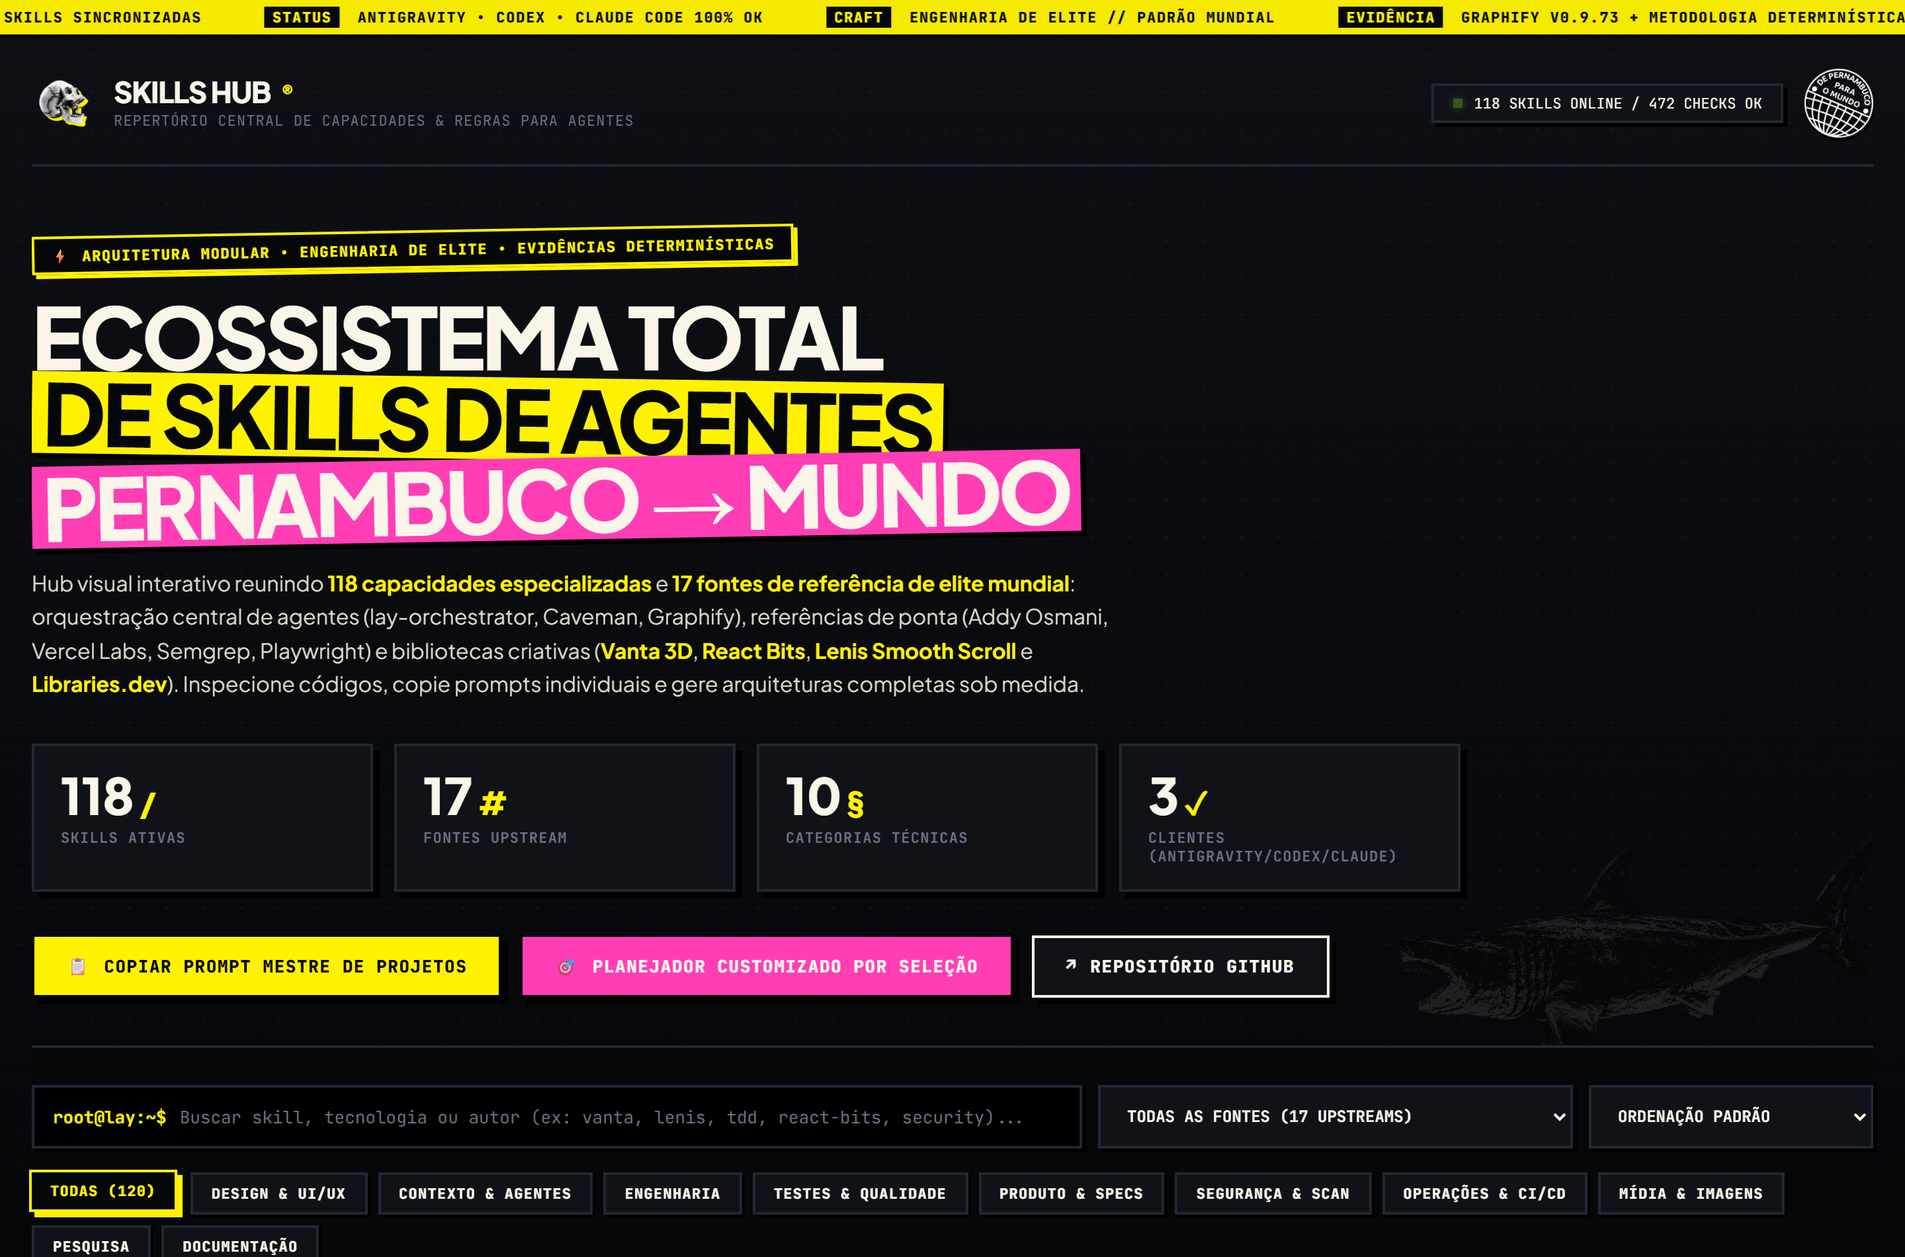
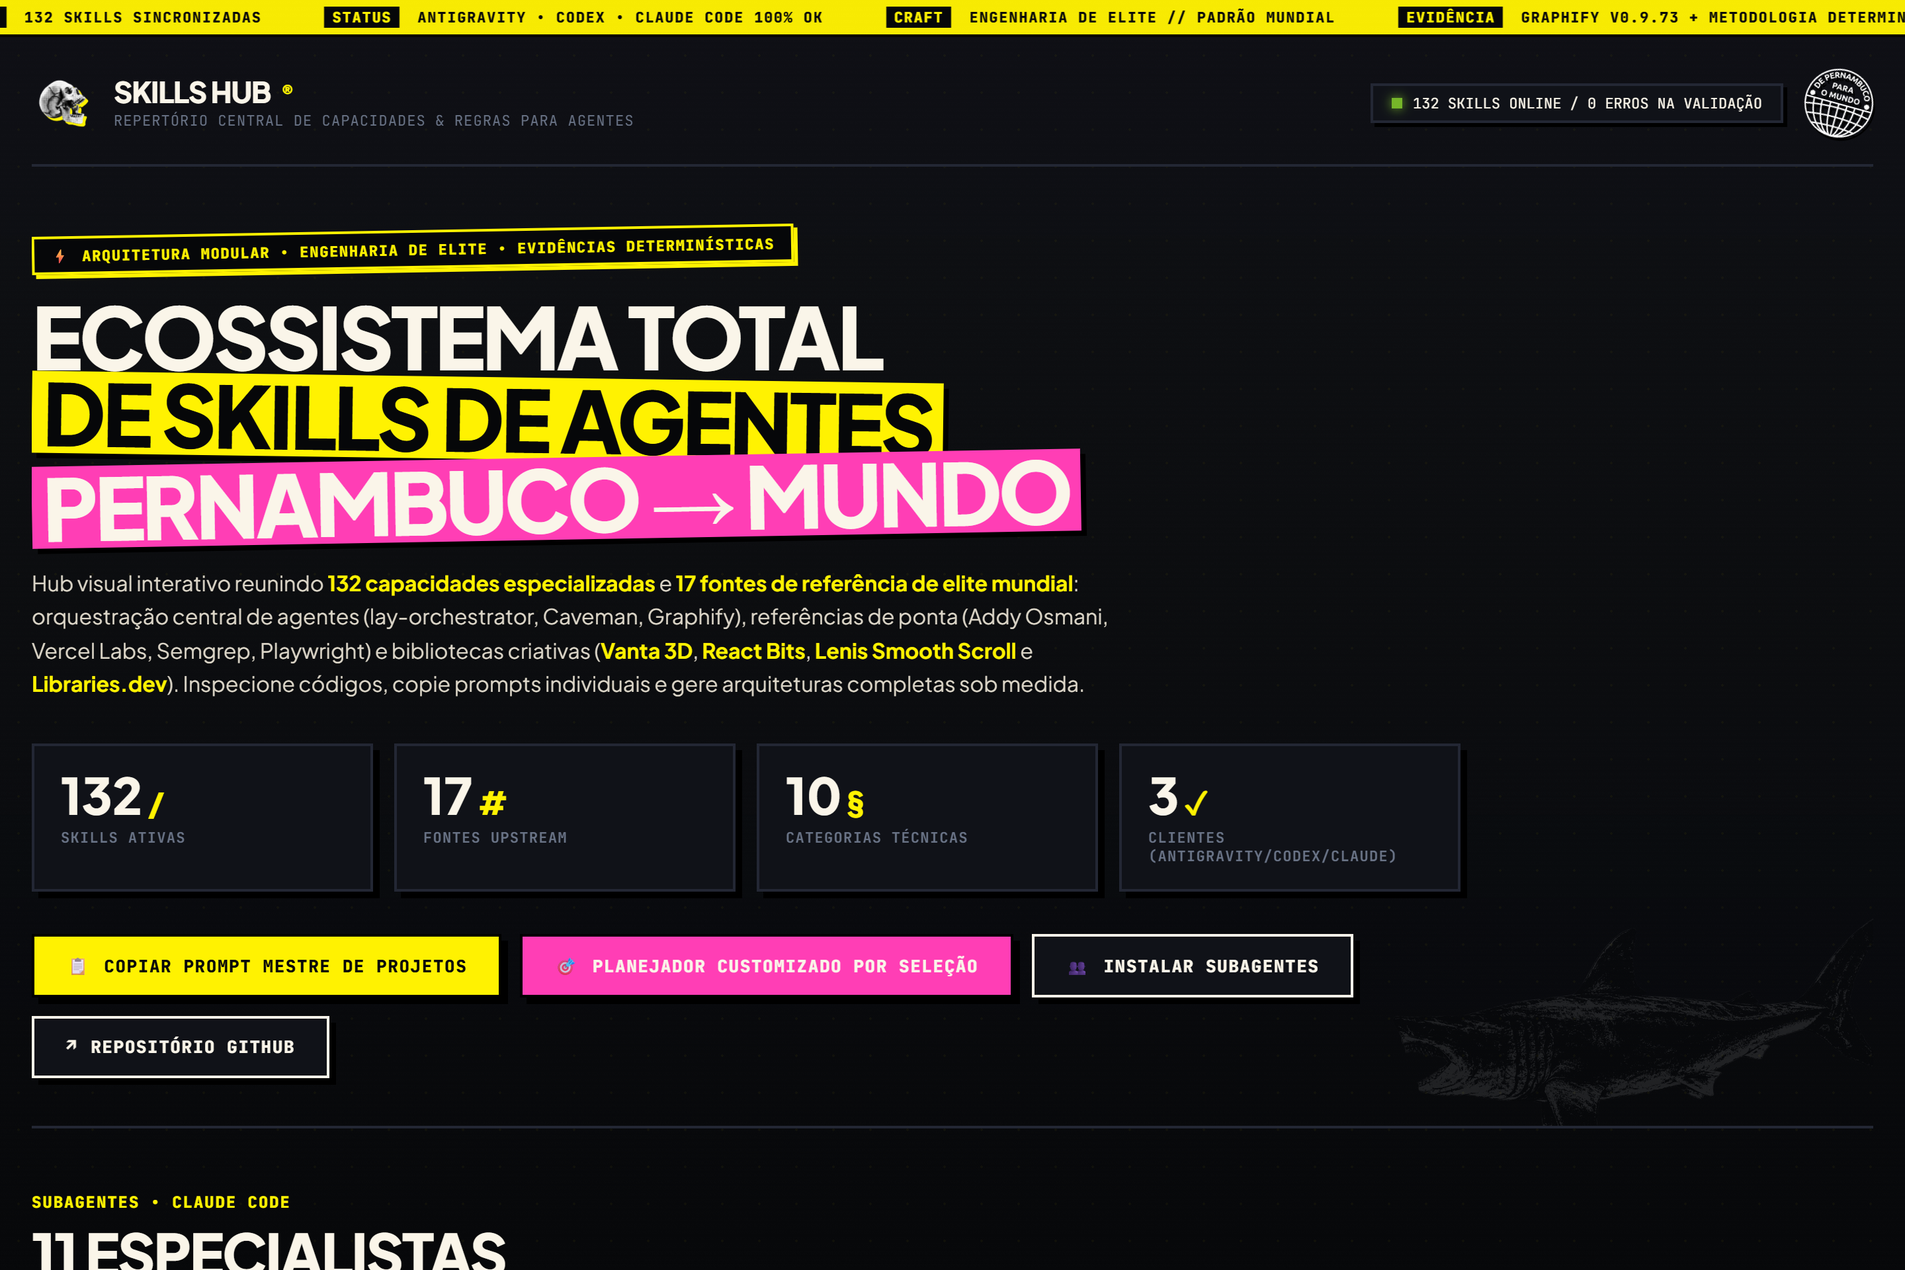
docs(readme): README reestruturado com capturas do site
- Galeria com 10 capturas (dashboard, catálogo, modais, subagentes, guia de
  instalação e celular), geradas a partir das páginas atuais.
- Seções de subagentes, adição de skills e instalação em opções.
- Badge de estrelas dinâmico.
- Remove 03-new-creative-skills.png, substituído pela captura dos subagentes.

diff --git a/README.md b/README.md
@@ -1,111 +1,232 @@
-# ⚡ LAY Skills Hub — Base de Habilidades para Agentes de IA
-
 <div align="center">
 
-![GitHub Release](https://img.shields.io/badge/release-v1.0.0-blue?style=for-the-badge&logo=git)
-![Skills Count](https://img.shields.io/badge/skills-132%20online-00f0ff?style=for-the-badge&logo=probot)
-![Platforms](https://img.shields.io/badge/agents-Antigravity%20%7C%20Codex%20%7C%20Claude-fff201?style=for-the-badge)
+# ⚡ LAY Skills Hub
+
+**Base de habilidades, subagentes e regras para agentes de IA**
+
+Google Antigravity · OpenAI Codex · Claude Code
+
+![Stars](https://img.shields.io/github/stars/Lound-Angry-Young/LAY-Skills-Hub?style=for-the-badge&logo=github&color=fff201&labelColor=060709)
+![Release](https://img.shields.io/badge/release-v1.0.0-blue?style=for-the-badge&logo=git)
+![Skills](https://img.shields.io/badge/skills-132%20online-00f0ff?style=for-the-badge&logo=probot)
+![Agents](https://img.shields.io/badge/agents-Antigravity%20%7C%20Codex%20%7C%20Claude-fff201?style=for-the-badge)
 ![License](https://img.shields.io/badge/license-MIT-green?style=for-the-badge)
 ![GitHub Pages](https://img.shields.io/badge/pages-ready-brightgreen?style=for-the-badge&logo=github)
 
 <br>
 
-**Repositório central de engenharia de software, orquestração de contexto, TDD e capacidades criativas para agentes de Inteligência Artificial.**
+<a href="https://lound-angry-young.github.io/LAY-Skills-Hub/">
+  <img src="docs/assets/screenshots/07-social-linkedin-card.png" alt="Hub de skills LAY: hero, métricas e acesso ao catálogo" width="100%">
+</a>
 
-<br>
+<br><br>
 
-![Social Preview](docs/assets/screenshots/07-social-linkedin-card.png)
-
-</div>
-
----
-
-## 🎯 Visão Geral
-
-O **LAY Skills Hub** é uma plataforma e infraestrutura modular projetada para abastecer assistentes de código e agentes autônomos (**Google Antigravity**, **OpenAI Codex**, **Claude Code**) com mais de **132 habilidades e diretrizes técnicas comprovadas**.
-
-Em vez de depender de heurísticas rasas ou respostas genéricas de LLM, o hub injeta contratos rigorosos de arquitetura, metodologias de teste (TDD), regras de segurança (OWASP Top 10) e bibliotecas criativas contemporâneas diretamente na camada de contexto dos agentes.
-
-### 🌟 Destaques Principais:
-- **132 Skills Homologadas:** Curadoria das melhores práticas da indústria (Addy Osmani, Vercel Labs, Semgrep, Microsoft Playwright).
-- **Dashboard Visual Web:** Interface estática independente (`index.html`) pronta para uso local ou publicação instantânea via **GitHub Pages**.
-- **Gerador de Prompts sob Medida:** Componha seleções específicas de habilidades e copie instruções formatadas com um clique.
-- **Orquestração Inteligente:** Integração nativa com navegação em grafos (**Graphify**) e comunicação ultra-concisa (**Caveman**).
-- **Stack Criativa & 3D WebGL:** Suporte arquitetural a **Vanta 3D**, **React Bits**, **Lenis Smooth Scroll** e **Libraries.dev**.
-
----
-
-## 📸 Demonstração Visual & Galeria para Redes Sociais
-
-> **💡 Dica para Redes Sociais:** Todas as capturas abaixo estão disponíveis em alta resolução (resolução Retina 2x) no diretório [`docs/assets/screenshots/`](docs/assets/screenshots/) e formatadas para compartilhamento no **LinkedIn**, **Twitter/X** e apresentações executivas.
-
-<div align="center">
-
-### 1. Visão Geral do Hub & Telemetria
-![Hub Overview](docs/assets/screenshots/01-hub-overview.png)
-*Interface principal com contador em tempo real, telemetria de runtimes e status de integração.*
-
-<br>
-
-### 2. Catálogo Completo & Grade de Filtros
-![Skills Catalog](docs/assets/screenshots/02-skills-catalog.png)
-*Exploração por categorias: Engenharia, Contexto, Testes, Segurança, Design e Operações.*
-
-<br>
-
-### 3. Stack Criativa (3D WebGL, Cinemática & Shaders)
-![Creative Skills](docs/assets/screenshots/03-new-creative-skills.png)
-*Módulos especializados em microinterações, física de scroll e backgrounds interativos Three.js.*
-
-<br>
-
-### 4. Inspeção de Especificação (Modal SKILL.md)
-![Skill Detail Modal](docs/assets/screenshots/04-skill-detail-modal.png)
-*Visualização inline das instruções completas, comandos de execução e metadados de proveniência.*
-
-<br>
-
-### 5. Prompt Mestre Universal para Novos Projetos
-![Master Prompt Modal](docs/assets/screenshots/05-master-prompt.png)
-*Script de inicialização pronto para orquestrar agentes em qualquer novo repositório.*
-
-<br>
-
-### 6. Planejador Sob Medida por Seleção Ativa
-![Custom Prompt Planner](docs/assets/screenshots/06-custom-prompt-planner.png)
-*Geração dinâmica de prompts injetando exclusivamente as habilidades selecionadas na sessão.*
+[**🌐 Dashboard**](https://lound-angry-young.github.io/LAY-Skills-Hub/) &nbsp;·&nbsp;
+[**📘 Guia dos subagentes**](https://lound-angry-young.github.io/LAY-Skills-Hub/instalacao.html) &nbsp;·&nbsp;
+[**⬇ Instalação**](#-instalação) &nbsp;·&nbsp;
+[**🤖 Subagentes**](#-subagentes-para-claude-code)
 
 </div>
 
 ---
 
-## 🚀 Como Executar
+## 📑 Sumário
 
-### 1. Acesso Imediato ao Dashboard Web
-A interface visual não requer servidor Node.js ou dependências complexas:
-- **Via Navegador:** Dê um duplo clique no arquivo [`index.html`](index.html) na raiz do repositório.
-- **Via Terminal (PowerShell):**
-  ```powershell
-  Start-Process "index.html"
-  ```
+- [Visão geral](#-visão-geral)
+- [Galeria](#-galeria)
+- [Subagentes para Claude Code](#-subagentes-para-claude-code)
+- [Adicionar skills](#-adicionar-skills)
+- [Instalação](#-instalação)
+- [Taxonomia das 132 habilidades](#-taxonomia-das-132-habilidades)
+- [Publicação no GitHub Pages](#-publicação-no-github-pages)
+- [Mídia](#-mídia)
 
-### 2. Clonagem com Submódulos Upstream
-Para clonar este hub com todas as fontes e bibliotecas integradas:
+---
+
+## 🎯 Visão geral
+
+O **LAY Skills Hub** abastece assistentes de código e agentes autônomos (**Google Antigravity**, **OpenAI Codex** e **Claude Code**) com **132 habilidades** e diretrizes técnicas, além de **11 subagentes** especialistas para o Claude Code.
+
+Em vez de respostas genéricas, o hub injeta na camada de contexto dos agentes contratos de arquitetura, metodologia de testes (TDD), regras de segurança (OWASP Top 10) e bibliotecas criativas contemporâneas.
+
+| | |
+| :--- | :--- |
+| 🧠 **132 skills homologadas** | Curadoria de práticas da indústria: Addy Osmani, Vercel Labs, Semgrep e Microsoft Playwright. |
+| 🤖 **11 subagentes** | Um especialista por domínio para o Claude Code, instalado globalmente ou versionado no projeto. |
+| 🎛 **Dashboard visual** | Interface estática (`index.html`), pronta para uso local ou no GitHub Pages. |
+| 🧾 **Prompts sob medida** | Monte uma seleção de skills e copie o plano de projeto formatado com um clique. |
+| 🧭 **Contexto e grafos** | Diagnóstico inicial com `lay-orchestrator`, grafos com **Graphify** e comunicação concisa com **Caveman**. |
+| 🎬 **Stack criativa** | Suporte a **Vanta 3D**, **React Bits**, **Lenis Smooth Scroll** e **Libraries.dev**. |
+
+---
+
+## 🖼 Galeria
+
+<table>
+  <tr>
+    <td align="center" width="50%">
+      <img src="docs/assets/screenshots/01-hub-overview.png" alt="Hero do dashboard com métricas" width="100%"><br>
+      <sub><b>Dashboard</b>: hero, métricas e atalhos do hub</sub>
+    </td>
+    <td align="center" width="50%">
+      <img src="docs/assets/screenshots/02-skills-catalog.png" alt="Catálogo com filtros e cards" width="100%"><br>
+      <sub><b>Catálogo</b>: busca, filtros por categoria e cards com ações</sub>
+    </td>
+  </tr>
+  <tr>
+    <td align="center" width="50%">
+      <img src="docs/assets/screenshots/04-skill-detail-modal.png" alt="Modal com a especificação de uma skill" width="100%"><br>
+      <sub><b>Especificação</b>: o <code>SKILL.md</code> completo, com a fonte</sub>
+    </td>
+    <td align="center" width="50%">
+      <img src="docs/assets/screenshots/05-master-prompt.png" alt="Modal do prompt mestre" width="100%"><br>
+      <sub><b>Prompt mestre</b>: inicialização pronta para qualquer projeto novo</sub>
+    </td>
+  </tr>
+  <tr>
+    <td align="center" width="50%">
+      <img src="docs/assets/screenshots/06-custom-prompt-planner.png" alt="Planejador com as skills selecionadas" width="100%"><br>
+      <sub><b>Planejador</b>: só as skills selecionadas entram no prompt</sub>
+    </td>
+    <td align="center" width="50%">
+      <img src="docs/assets/screenshots/10-mobile-hub.png" alt="Dashboard no celular" width="60%"><br>
+      <sub><b>Celular</b>: o dashboard funciona sem rolagem horizontal</sub>
+    </td>
+  </tr>
+</table>
+
+### 🤖 Subagentes e guia de instalação
+
+<table>
+  <tr>
+    <td align="center" colspan="2">
+      <img src="docs/assets/screenshots/03-subagentes.png" alt="Seção dos 11 subagentes com domínio, uso e ferramentas" width="100%"><br>
+      <sub><b>Os 11 subagentes</b>: um por domínio, com as ferramentas de cada um</sub>
+    </td>
+  </tr>
+  <tr>
+    <td align="center" width="50%">
+      <img src="docs/assets/screenshots/08-guia-instalacao.png" alt="Guia de instalação em três passos" width="100%"><br>
+      <sub><b>Guia de instalação</b>: clonar, instalar e conferir</sub>
+    </td>
+    <td align="center" width="50%">
+      <img src="docs/assets/screenshots/09-guia-prompts.png" alt="Prompts prontos para copiar" width="100%"><br>
+      <sub><b>Prompts prontos</b>: instalar, atualizar com confirmação e pedir com orquestração</sub>
+    </td>
+  </tr>
+</table>
+
+---
+
+## 🤖 Subagentes para Claude Code
+
+O hub traz **11 subagentes** para o Claude Code, um especialista por domínio. Cada um recebe as skills do seu domínio e só as ferramentas que o trabalho exige. A conversa principal escolhe o especialista, delega a tarefa e junta a resposta. **Subagentes não chamam outros subagentes.**
+
+| Subagente | Domínio | Use quando | Ferramentas |
+| :--- | :--- | :--- | :--- |
+| `lay-omniroute` | routing-and-proxy | roteamento entre modelos, providers, combos, custos e limites de gasto | leitura, edição e comandos |
+| `lay-frontend` | frontend | telas, componentes, landing pages, layout e animação | leitura, edição e comandos |
+| `lay-engenharia` | engineering | arquitetura, revisão de código, depuração, migração e performance | leitura, edição e comandos |
+| `lay-contexto` | context | grafo do projeto, planejamento, requisitos e compressão de contexto | leitura, edição e comandos |
+| `lay-devops` | devops | commits, branches, releases, CI/CD e deploy | leitura, edição e comandos |
+| `lay-qa` | qa | testes, cobertura, falhas de CI e validação antes de merge | leitura, edição e comandos |
+| `lay-seguranca` | security | vulnerabilidades, auditoria, segredos e autenticação | só leitura (não edita arquivos) |
+| `lay-3d` | creative-3d | 3D, Blender, shaders, fundos animados e WebGL | leitura, edição e comandos |
+| `lay-documentacao` | documentation | revisão de texto, ADRs e prosa para publicação | sem comandos (sem Bash) |
+| `lay-design` | design | identidade visual, moodboard e mockups (não escreve código de interface) | sem comandos (sem Bash) |
+| `lay-banco-de-dados` | database | backup, restauração, snapshots e cache de respostas | leitura, edição e comandos |
+
+### Como chamar
+
+- **Automático:** escreva o pedido normalmente. O Claude escolhe o subagente pela `description`, que traz os gatilhos "Use quando" e "Não use para".
+- **Pelo nome:** `use o subagente lay-qa para cobrir o checkout com testes`.
+- Subagente novo não aparece? Reinicie a sessão: os perfis são carregados no início.
+
+### Onde ficam
+
+- **Global**, em `~/.claude/agents/`: vale em todos os seus projetos.
+- **Projeto**, em [`.claude/agents/`](.claude/agents/): versionado neste repositório. Quando os dois existem, o do projeto prevalece.
+
+### Orquestração
+
+As regras de roteamento estão na seção "Orquestração de subagentes" do [`CLAUDE.md`](CLAUDE.md). O contrato de handoff está em [`agents/wiring/HANDOFF.md`](agents/wiring/HANDOFF.md) e o índice em [`agents/README.md`](agents/README.md).
+
+📘 **Guia completo, com prompts para copiar:** [instalação e uso dos subagentes](https://lound-angry-young.github.io/LAY-Skills-Hub/instalacao.html).
+
+---
+
+## ➕ Adicionar skills
+
+Uma skill ou um lote inteiro entra no padrão com um comando. O gerador confere o formato, atualiza os roteadores do domínio e regenera catálogo, dashboard e subagentes. Se algo estiver fora do padrão, nada é gravado.
+
 ```bash
-git clone --recurse-submodules https://github.com/Lound-Angry-Young/SKILLS-E-CONFIGS-PARA-NOVOS-PROJETOS.git
+python scripts/nova_skill.py dominios                      # domínios, skills e subagente de cada um
+python scripts/nova_skill.py nova <nome> --dominio <dominio> --descricao "<texto>" --corpo corpo.md
+python scripts/nova_skill.py lote <pasta>                  # pasta <dominio>/<nome>/SKILL.md, tudo ou nada
+python scripts/nova_skill.py regenerar
 ```
 
-### 3. Instalação nos Agentes Locais
-Para distribuir automaticamente as skills nos perfis globais do **Google Antigravity**, **OpenAI Codex** ou **Claude Code**:
+📘 Passo a passo, formato e skills privadas: [docs/ADICIONAR_SKILLS.md](docs/ADICIONAR_SKILLS.md).
 
-- **Windows (PowerShell):**
-  ```powershell
-  powershell -ExecutionPolicy Bypass -File ".\install.ps1"
-  ```
-- **Linux / macOS (Bash):**
-  ```bash
-  bash "./install.sh"
-  ```
+---
+
+## ⬇ Instalação
+
+<details open>
+<summary><b>Opção 1: dashboard local, sem instalar nada</b></summary>
+
+Dê um duplo clique em [`index.html`](index.html), ou rode no PowerShell:
+
+```powershell
+Start-Process "index.html"
+```
+
+</details>
+
+<details open>
+<summary><b>Opção 2: clonar com as fontes (submódulos)</b></summary>
+
+```bash
+git clone --recurse-submodules https://github.com/Lound-Angry-Young/LAY-Skills-Hub.git
+cd LAY-Skills-Hub
+```
+
+Já clonou sem submódulos? Rode `git submodule update --init --recursive`.
+
+</details>
+
+<details open>
+<summary><b>Opção 3: instalar nos agentes</b></summary>
+
+Distribui as skills para os perfis globais do **Google Antigravity**, **OpenAI Codex** e **Claude Code**, incluindo os 11 subagentes.
+
+| Sistema | Comando |
+| :--- | :--- |
+| Windows (PowerShell) | `powershell -ExecutionPolicy Bypass -File ".\install.ps1"` |
+| Linux / macOS | `bash "./install.sh"` |
+| Só Claude Code | `python scripts/skill_hub.py install --agents claude` |
+| Conferir a instalação | `python scripts/skill_hub.py doctor` |
+
+Atualizar e remover:
+
+```bash
+python scripts/skill_hub.py sync --check     # consulta as fontes, não altera nada
+python scripts/skill_hub.py sync --apply     # aplica atualizações (explícito)
+python scripts/skill_hub.py install --agents all
+python scripts/skill_hub.py uninstall
+```
+
+<details>
+<summary>Regra de atualização das fontes</summary>
+
+1. **Consulta:** automática no início de sessão, por projeto. Não altera nenhum arquivo.
+2. **Aplicação:** explícita, com `sync --apply`. Só fast-forward limpo; alterações locais são preservadas.
+3. **Commit:** cada fonte atualizada vira um commit `chore(upstream): atualizar <fonte> para <sha7>`.
+4. **Reflexo nos agentes:** depois, `install --agents all`.
+
+</details>
+
+</details>
 
 ---
 
@@ -124,27 +245,35 @@ Para distribuir automaticamente as skills nos perfis globais do **Google Antigra
 
 ## 🌐 Publicação no GitHub Pages
 
-Este repositório já está 100% configurado para rodar no **GitHub Pages**:
+O repositório já está pronto para o **GitHub Pages**: há o arquivo [`.nojekyll`](.nojekyll) na raiz e o workflow [`.github/workflows/deploy-pages.yml`](.github/workflows/deploy-pages.yml).
 
-1. Arquivo de bypass do Jekyll [`.nojekyll`](.nojekyll) presente na raiz.
-2. Workflow de automação [`.github/workflows/deploy-pages.yml`](.github/workflows/deploy-pages.yml) pré-configurado.
-3. Para ativar em seu fork ou repositório:
-   - Acesse **Settings** > **Pages** no GitHub.
-   - Em **Build and deployment**, selecione **GitHub Actions** (ou **Deploy from a branch** > `main` / `/ (root)`).
-   - O dashboard estará acessível em: `https://<seu-usuario>.github.io/<seu-repositorio>/`.
+<details>
+<summary>Como ativar em um fork ou repositório seu</summary>
+
+1. Acesse **Settings** > **Pages** no GitHub.
+2. Em **Build and deployment**, selecione **GitHub Actions** (ou **Deploy from a branch** > `main` / `/ (root)`).
+3. O dashboard ficará em `https://<seu-usuario>.github.io/<seu-repositorio>/`.
+
+</details>
 
 ---
 
-## 📂 Recursos de Mídia para Download
+## 📂 Mídia
 
-Os ativos visuais preparados para divulgação externa encontram-se em:
-- [`docs/assets/screenshots/01-hub-overview.png`](docs/assets/screenshots/01-hub-overview.png) — *Visão panorâmica do Hub (1440x950 @ 2x)*
-- [`docs/assets/screenshots/02-skills-catalog.png`](docs/assets/screenshots/02-skills-catalog.png) — *Grid do catálogo de capacidades*
-- [`docs/assets/screenshots/03-new-creative-skills.png`](docs/assets/screenshots/03-new-creative-skills.png) — *Módulos criativos e animações*
-- [`docs/assets/screenshots/04-skill-detail-modal.png`](docs/assets/screenshots/04-skill-detail-modal.png) — *Modal de especificação técnica*
-- [`docs/assets/screenshots/05-master-prompt.png`](docs/assets/screenshots/05-master-prompt.png) — *Modal do prompt mestre*
-- [`docs/assets/screenshots/06-custom-prompt-planner.png`](docs/assets/screenshots/06-custom-prompt-planner.png) — *Modal do planejador personalizado*
-- [`docs/assets/screenshots/07-social-linkedin-card.png`](docs/assets/screenshots/07-social-linkedin-card.png) — *Card oficial para LinkedIn (1200x630 @ 2x)*
+Capturas usadas neste README, em `docs/assets/screenshots/`:
+
+| Arquivo | Conteúdo |
+| :--- | :--- |
+| [`01-hub-overview.png`](docs/assets/screenshots/01-hub-overview.png) | Hero do dashboard com métricas (1440x960 @ 2x) |
+| [`02-skills-catalog.png`](docs/assets/screenshots/02-skills-catalog.png) | Catálogo com filtros e cards |
+| [`03-subagentes.png`](docs/assets/screenshots/03-subagentes.png) | Seção dos 11 subagentes |
+| [`04-skill-detail-modal.png`](docs/assets/screenshots/04-skill-detail-modal.png) | Modal de especificação de skill |
+| [`05-master-prompt.png`](docs/assets/screenshots/05-master-prompt.png) | Modal do prompt mestre |
+| [`06-custom-prompt-planner.png`](docs/assets/screenshots/06-custom-prompt-planner.png) | Planejador sob medida |
+| [`07-social-linkedin-card.png`](docs/assets/screenshots/07-social-linkedin-card.png) | Card para redes sociais (1200x630 @ 2x) |
+| [`08-guia-instalacao.png`](docs/assets/screenshots/08-guia-instalacao.png) | Guia de instalação |
+| [`09-guia-prompts.png`](docs/assets/screenshots/09-guia-prompts.png) | Prompts prontos para copiar |
+| [`10-mobile-hub.png`](docs/assets/screenshots/10-mobile-hub.png) | Dashboard no celular (390x844 @ 2x) |
 
 ---
 
